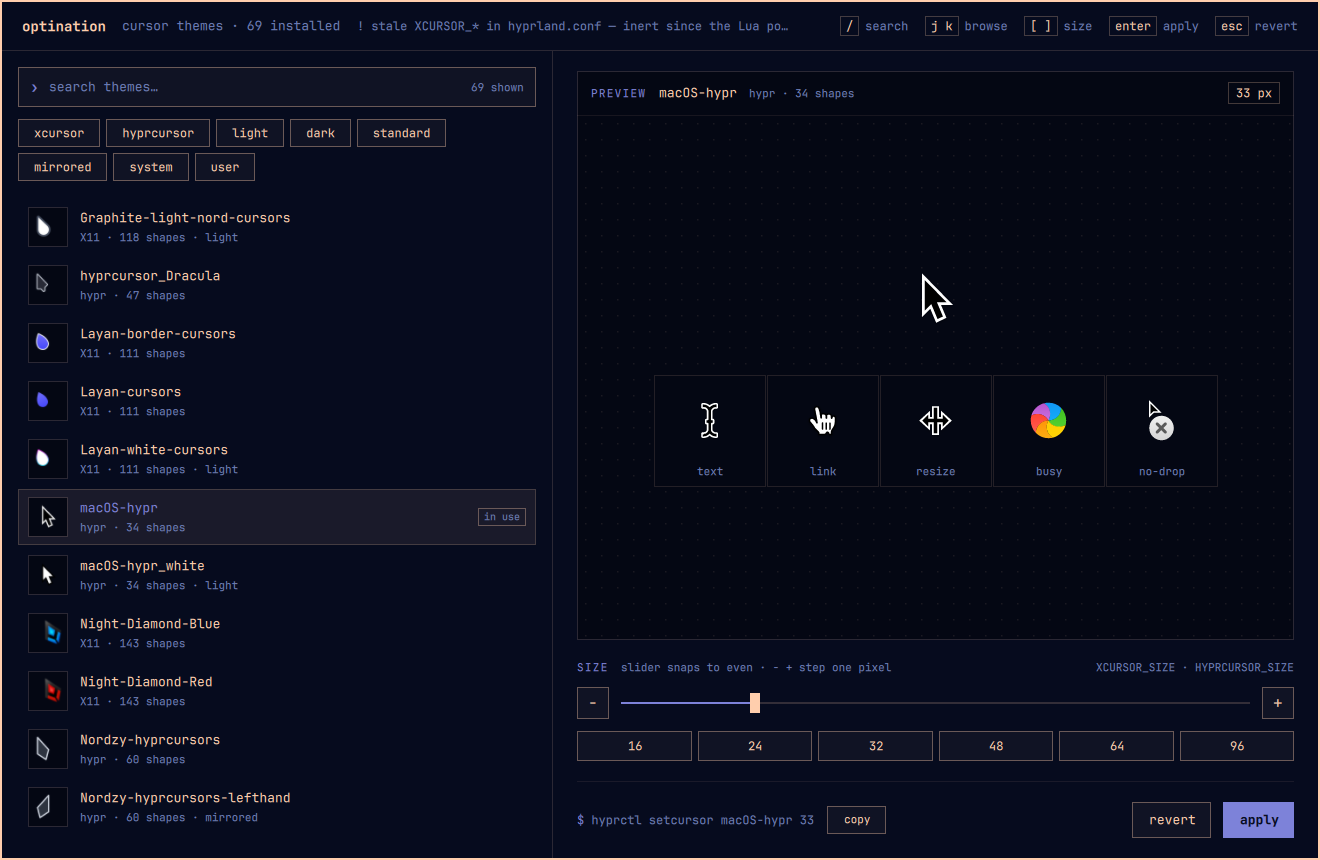
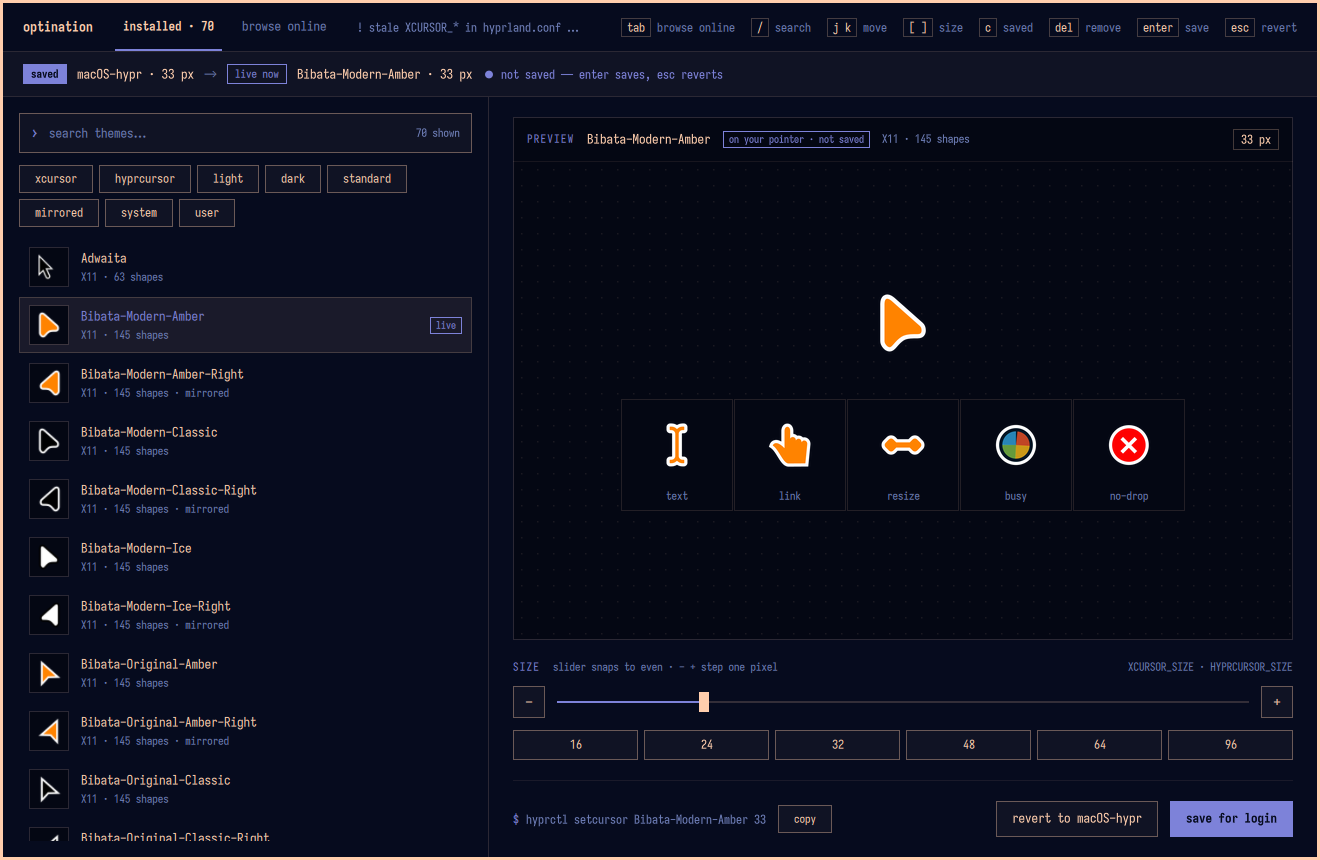
docs: screenshots of v0.3.0 (#7)
preview.png now shows the saved vs. live strip while trying a theme, and
the README shows the browse online tab.

diff --git a/README.md b/README.md
@@ -135,6 +135,8 @@ draggable and remembered in `$XDG_STATE_HOME/optination/ui.json`.
 
 ## Browsing and installing
 
+![The browse online tab](screenshots/browse.png)
+
 The **browse online** tab reads the OpenDesktop OCS API (category 107,
 *Cursors* — the same catalog gnome-look.org and KDE's "Get New Cursors"
 use). Search, sort by downloads / rating / newest / name, scroll for more.
